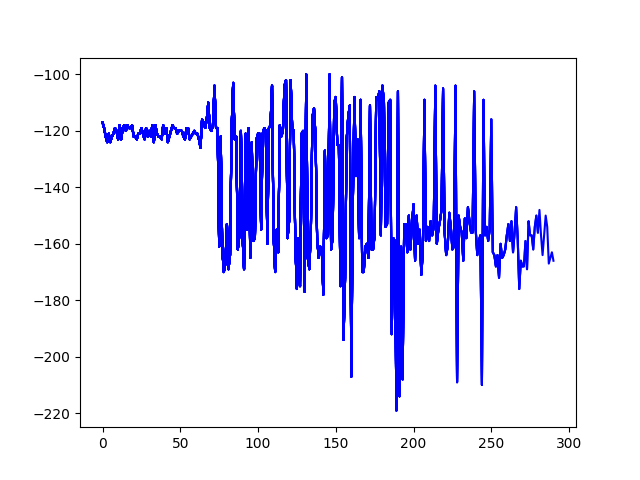
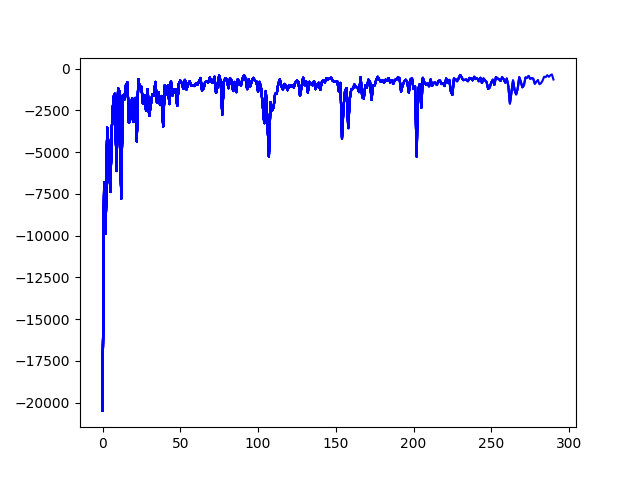
refactoring and add arguments for testing and training

diff --git a/src/irlwpytorch/main.py b/src/irlwpytorch/main.py
@@ -23,7 +23,6 @@ References:
 import argparse
 import gym
 import matplotlib.pyplot as plt
-import numpy as np
 import logging
 import numpy as np
 import sys
@@ -39,68 +38,7 @@ __license__ = "MIT"
 
 _logger = logging.getLogger(__name__)
 
-n_states = 400  # position - 20, velocity - 20
-n_actions = 3
-one_feature = 20  # number of state per one feature
-q_table = np.zeros((n_states, n_actions))  # (400, 3)
-feature_matrix = np.eye((n_states))  # (400, 400)
-
-gamma = 0.99
-q_learning_rate = 0.03
-theta_learning_rate = 0.05
-
 np.random.seed(1)
-
-
-def idx_demo(env, one_feature):
-    env_low = env.observation_space.low
-    env_high = env.observation_space.high
-    env_distance = (env_high - env_low) / one_feature
-
-    raw_demo = np.load(file="expert_demo/expert_demo.npy")
-    demonstrations = np.zeros((len(raw_demo), len(raw_demo[0]), 3))
-
-    for x in range(len(raw_demo)):
-        for y in range(len(raw_demo[0])):
-            position_idx = int((raw_demo[x][y][0] - env_low[0]) / env_distance[0])
-            velocity_idx = int((raw_demo[x][y][1] - env_low[1]) / env_distance[1])
-            state_idx = position_idx + velocity_idx * one_feature
-
-            demonstrations[x][y][0] = state_idx
-            demonstrations[x][y][1] = raw_demo[x][y][2]
-
-    return demonstrations
-
-
-def idx_state(env, state):
-    env_low = env.observation_space.low
-    env_high = env.observation_space.high
-    env_distance = (env_high - env_low) / one_feature
-    position_idx = int((state[0] - env_low[0]) / env_distance[0])
-    velocity_idx = int((state[1] - env_low[1]) / env_distance[1])
-    state_idx = position_idx + velocity_idx * one_feature
-    return state_idx
-
-
-def update_q_table(state, action, reward, next_state):
-    q_1 = q_table[state][action]
-    q_2 = reward + gamma * max(q_table[next_state])
-    q_table[state][action] += q_learning_rate * (q_2 - q_1)
-
-
-q_table = np.load(file="results/maxent_q_table.npy")  # (400, 3)
-one_feature = 20  # number of state per one feature
-
-
-def idx_to_state(env, state):
-    """ Convert pos and vel about mounting car environment to the integer value"""
-    env_low = env.observation_space.low
-    env_high = env.observation_space.high
-    env_distance = (env_high - env_low) / one_feature
-    position_idx = int((state[0] - env_low[0]) / env_distance[0])
-    velocity_idx = int((state[1] - env_low[1]) / env_distance[1])
-    state_idx = position_idx + velocity_idx * one_feature
-    return state_idx
 
 
 def parse_args(args):
@@ -119,6 +57,9 @@ def parse_args(args):
         action="version",
         # version=f"IRLwPytorch {__version__}",
     )
+    parser.add_argument('--training', action='store_true')
+    parser.add_argument('--testing', action='store_true')
+    parser.add_argument('--render', action='store_true')
     return parser.parse_args(args)
 
 
@@ -147,36 +88,51 @@ def main(args):
     args = parse_args(args)
     _logger.debug("Starting crazy calculations...")
 
-    car = MountainCar()
+    n_states = 400  # position - 20, velocity - 20
+    n_actions = 3
+    one_feature = 20  # number of state per one feature
+    feature_matrix = np.eye((n_states))  # (400, 400)
+
+    gamma = 0.99
+    q_learning_rate = 0.03
+    theta_learning_rate = 0.05
+
+    car = None
+    if args.render:
+        car = MountainCar(True, feature_matrix, one_feature, q_learning_rate, gamma)
+    else:
+        car = MountainCar(False, feature_matrix, one_feature, q_learning_rate, gamma)
 
     theta = -(np.random.uniform(size=(n_states,)))
     trainer = MaxEntropyIRL(feature_matrix, theta)
 
-    if False:
-        env = gym.make('MountainCar-v0', render_mode="human")
-        demonstrations = idx_demo(env, one_feature)
+    if args.training:
+        q_table = np.zeros((n_states, n_actions))  # (400, 3)
+        car.set_q_table(q_table)
+
+        demonstrations = car.idx_demo(one_feature)
 
         expert = trainer.expert_feature_expectations(demonstrations)
         learner_feature_expectations = np.zeros(n_states)
         episodes, scores = [], []
 
-        for episode in range(300):
-            state = env.reset()
+        for episode in range(30000):
+            state = car.env_reset()
             score = 0
 
-            if (episode != 0 and episode == 100) or (episode > 100 and episode % 50 == 0):
+            if (episode != 0 and episode == 10000) or (episode > 10000 and episode % 5000 == 0):
                 learner = learner_feature_expectations / episode
                 trainer.maxent_irl(expert, learner, theta_learning_rate)
 
             state = state[0]
             while True:
-                state_idx = idx_state(env, state)
+                state_idx = car.idx_state(state)
                 action = np.argmax(q_table[state_idx])
-                next_state, reward, done, _, _ = env.step(action)
+                next_state, reward, done, _, _ = car.env_step(action)
 
                 irl_reward = trainer.get_reward(n_states, state_idx)
-                next_state_idx = idx_state(env, next_state)
-                update_q_table(state_idx, action, irl_reward, next_state_idx)
+                next_state_idx = car.idx_state(next_state)
+                car.update_q_table(state_idx, action, irl_reward, next_state_idx)
 
                 learner_feature_expectations += trainer.get_feature_matrix()[int(state_idx)]
 
@@ -187,28 +143,29 @@ def main(args):
                     episodes.append(episode)
                     break
 
-            if episode % 10 == 0:
+            if episode % 100 == 0:
                 score_avg = np.mean(scores)
                 print('{} episode score is {:.2f}'.format(episode, score_avg))
                 plt.plot(episodes, scores, 'b')
-                plt.savefig("./learning_curves/maxent_300.png")
-                np.save("./results/maxent_300_table", arr=q_table)
+                plt.savefig("./learning_curves/maxent_30000.png")
+                np.save("./results/maxent_30000_table", arr=q_table)
 
-    else:
-        env = gym.make('MountainCar-v0', render_mode="human")
+    if args.testing:
+        q_table = np.load(file="results/maxent_q_table.npy")  # (400, 3)
+        car.set_q_table(q_table)
 
         episodes, scores = [], []
 
         for episode in range(10):
-            state = env.reset()
+            state = car.env_reset()
             score = 0
 
             state = state[0]
             while True:
-                env.render()
-                state_idx = idx_to_state(env, state)
+                car.env_render()
+                state_idx = car.idx_to_state(state)
                 action = np.argmax(q_table[state_idx])
-                next_state, reward, done, _, _ = env.step(action)
+                next_state, reward, done, _, _ = car.env_step(action)
 
                 score += reward
                 state = next_state
@@ -217,7 +174,7 @@ def main(args):
                     scores.append(score)
                     episodes.append(episode)
                     plt.plot(episodes, scores, 'b')
-                    plt.savefig("./learning_curves/maxent_test_300.png")
+                    plt.savefig("./learning_curves/maxent_test_30000.png")
                     break
 
             if episode % 1 == 0:
@@ -235,14 +192,4 @@ def run():
 
 
 if __name__ == "__main__":
-    # ^  This is a guard statement that will prevent the following code from
-    #    being executed in the case someone imports this file instead of
-    #    executing it as a script.
-    #    https://docs.python.org/3/library/__main__.html
-
-    # After installing your project with pip, users can also run your Python
-    # modules as scripts via the ``-m`` flag, as defined in PEP 338::
-    #
-    #     python -m irlwpytorch.skeleton 42
-    #
     run()

diff --git a/src/irlwpytorch/MountainCar.py b/src/irlwpytorch/MountainCar.py
@@ -1,10 +1,76 @@
+import gym
+import numpy as np
+
 class MountainCar:
 
-    def __init__(self):
-        pass
+    def __init__(self, animation, feature_matrix, one_feature, q_learning_rate, gamma):
+        if animation:
+            self.env = gym.make('MountainCar-v0', render_mode="human")
+        else:
+            self.env = gym.make('MountainCar-v0')
+        self.feature_matrix = feature_matrix
+        self.one_feature = one_feature
+        self.q_table = None
+        self.q_learning_rate = q_learning_rate
+        self.gamma = gamma
 
     def __enter__(self):
         return self
 
     def __exit__(self, exc_type, exc_val, exc_tb):
         pass
+
+    def set_q_table(self, table):
+        self.q_table = table
+
+    def idx_demo(self, one_feature):
+        env_low = self.env.observation_space.low
+        env_high = self.env.observation_space.high
+        env_distance = (env_high - env_low) / self.one_feature
+
+        raw_demo = np.load(file="expert_demo/expert_demo.npy")
+        demonstrations = np.zeros((len(raw_demo), len(raw_demo[0]), 3))
+
+        for x in range(len(raw_demo)):
+            for y in range(len(raw_demo[0])):
+                position_idx = int((raw_demo[x][y][0] - env_low[0]) / env_distance[0])
+                velocity_idx = int((raw_demo[x][y][1] - env_low[1]) / env_distance[1])
+                state_idx = position_idx + velocity_idx * one_feature
+
+                demonstrations[x][y][0] = state_idx
+                demonstrations[x][y][1] = raw_demo[x][y][2]
+
+        return demonstrations
+
+    def idx_state(self, state):
+        env_low = self.env.observation_space.low
+        env_high = self.env.observation_space.high
+        env_distance = (env_high - env_low) / self.one_feature
+        position_idx = int((state[0] - env_low[0]) / env_distance[0])
+        velocity_idx = int((state[1] - env_low[1]) / env_distance[1])
+        state_idx = position_idx + velocity_idx * self.one_feature
+        return state_idx
+
+    def idx_to_state(self, state):
+        """ Convert pos and vel about mounting car environment to the integer value"""
+        env_low = self.env.observation_space.low
+        env_high = self.env.observation_space.high
+        env_distance = (env_high - env_low) / self.one_feature
+        position_idx = int((state[0] - env_low[0]) / env_distance[0])
+        velocity_idx = int((state[1] - env_low[1]) / env_distance[1])
+        state_idx = position_idx + velocity_idx * self.one_feature
+        return state_idx
+
+    def update_q_table(self, state, action, reward, next_state):
+        q_1 = self.q_table[state][action]
+        q_2 = reward + self.gamma * max(self.q_table[next_state])
+        self.q_table[state][action] += self.q_learning_rate * (q_2 - q_1)
+
+    def env_render(self):
+        self.env.render()
+
+    def env_reset(self):
+        return self.env.reset()
+
+    def env_step(self, action):
+        return self.env.step(action)
